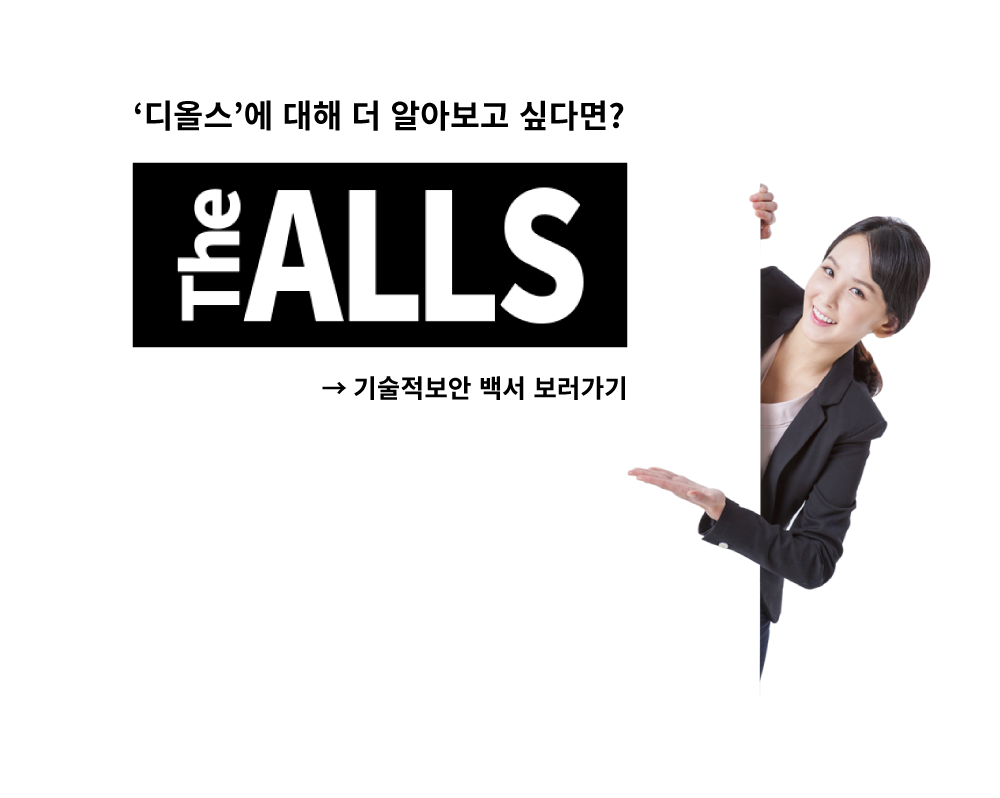
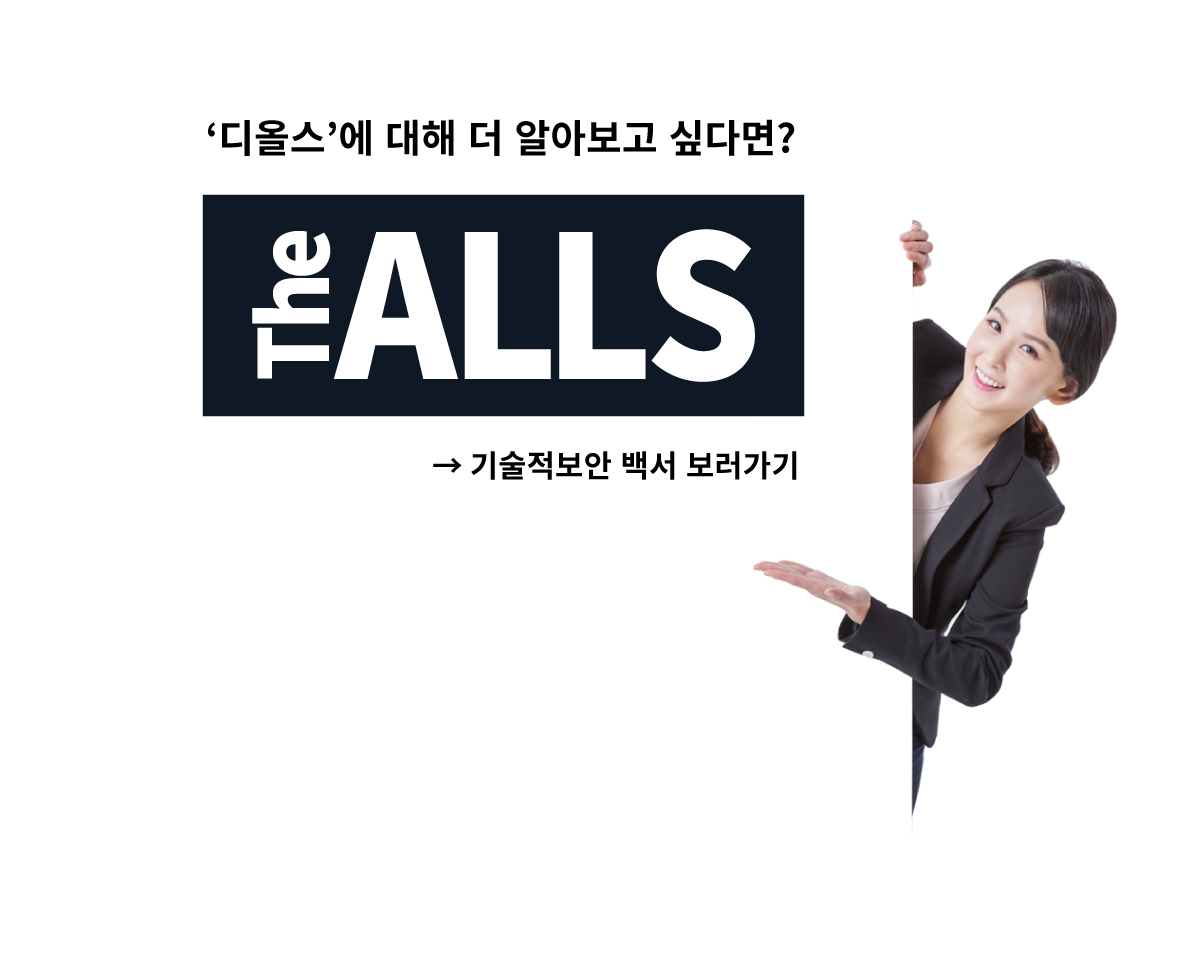
전현석 // 인덱스, 프라임 수정

Changed region(s): [[0.124, 0.1203, 0.682, 0.5113]]

diff --git a/coin4/css/prime.css b/coin4/css/prime.css
@@ -648,21 +648,25 @@
 /*more_thealls*/
 .more_thealls{
   margin:100px 0 100px 0;
-  position: relative;
   overflow: hidden;
 }
+.more_thealls p{
+  position: relative;
+}
 .more_thealls .more_a{
-  width:230px;
+  width:10%;
+  height:50px;
   color:#f00;
   position:absolute;
   display:block;
   overflow:hidden;
   text-indent:-9999px;
-  top:47%;
-  right:45%;
+  top:33%;
+  right:30%;
 }
 .more_thealls img{
-  width:40%;
+  width:50%;
+  margin: 0 0 150px 0;
 }
 
 /*메인홈버튼*/

diff --git a/coin4/css/index.css b/coin4/css/index.css
@@ -16,6 +16,16 @@
   position: relative;
   height: 300px;
 }
+.a_link{
+  position:absolute;
+  font-size:22px;
+  top:73%;
+  left:33.5%;
+  padding-top:5px;
+  overflow: hidden;
+  text-indent: -9999px;
+  width:432px;
+}
 /* .panel:after {
   content: "";
   display: block;
@@ -319,6 +329,13 @@
 }
 #app_wrap{
   display:none;
+}
+.prime_bt{
+  position:absolute;
+  top:90%;
+  right:-8%;
+  width:10%;
+  cursor:pointer;
 }
 
 @media all and (min-width:320px) and (max-width:1024px){

diff --git a/coin4/css/notice_detail.css b/coin4/css/notice_detail.css
@@ -131,3 +131,12 @@
   background: url(../img/arrow_off.png) no-repeat 95% center;
   background-size: 10px;
 }
+}
+@media all and (min-width:1025px) and (max-width:1599px){
+  .notice_detail .notice_detail_inner .notice_detail_inner_content p{
+    font-size:12px;
+  }
+  .notice_detail .notice_detail_inner .notice_detail_footer .notice_preview li p{
+    font-size:12px;
+  }
+}

diff --git a/coin4/css/common.css b/coin4/css/common.css
@@ -1353,6 +1353,9 @@ box-shadow:none;
     .mypage_content{
       padding:40px 20px;
     }
+    .coin_money_detail #detail_all .coinInfo_table tbody tr td{
+      font-size:12px;
+    }
 
     /*인증센터 그림*/
     .cer_center .cer_level{

diff --git a/coin4/index.php b/coin4/index.php
@@ -49,7 +49,7 @@
                   <!-- banner_slide-->
                   <div class="slide">
                     <ul class="panel">
-                      <li class="banner1 on"></li>
+                      <li class="banner1 on"><a href="#" class="a_link">디올스 국제거래소 기술적 보안 백 보러 가기</a></li>
                       <li class="banner2"></li>
                       <li class="banner3"></li>
                       <li class="banner4"></li>
@@ -268,6 +268,9 @@
                         </ul>
                       </div>
                     </div><!-- Notice&use_guide End-->
+
+                      <p onclick="location.href='prime.php'"><img src="img/prime.png" alt="프라임버튼" class="prime_bt"></p>
+
                 </div><!-- main_content End-->
             </div><!-- content_wrap End-->
 

diff --git a/coin4/prime.php b/coin4/prime.php
@@ -399,7 +399,7 @@
 
                           <!--디올스 더보기-->
                           <div class="more_thealls">
-                            <p><img src="img/more_thealls3.png" alt="디올스더보기"><a href="#" class="more_a">더올스 더보기</a></p>
+                            <p><img src="img/more_thealls.png" alt="디올스더보기"><a href="#" class="more_a">더올스 더보기</a></p>
                           </div><!--디올스 더보기 끝-->
 
 
